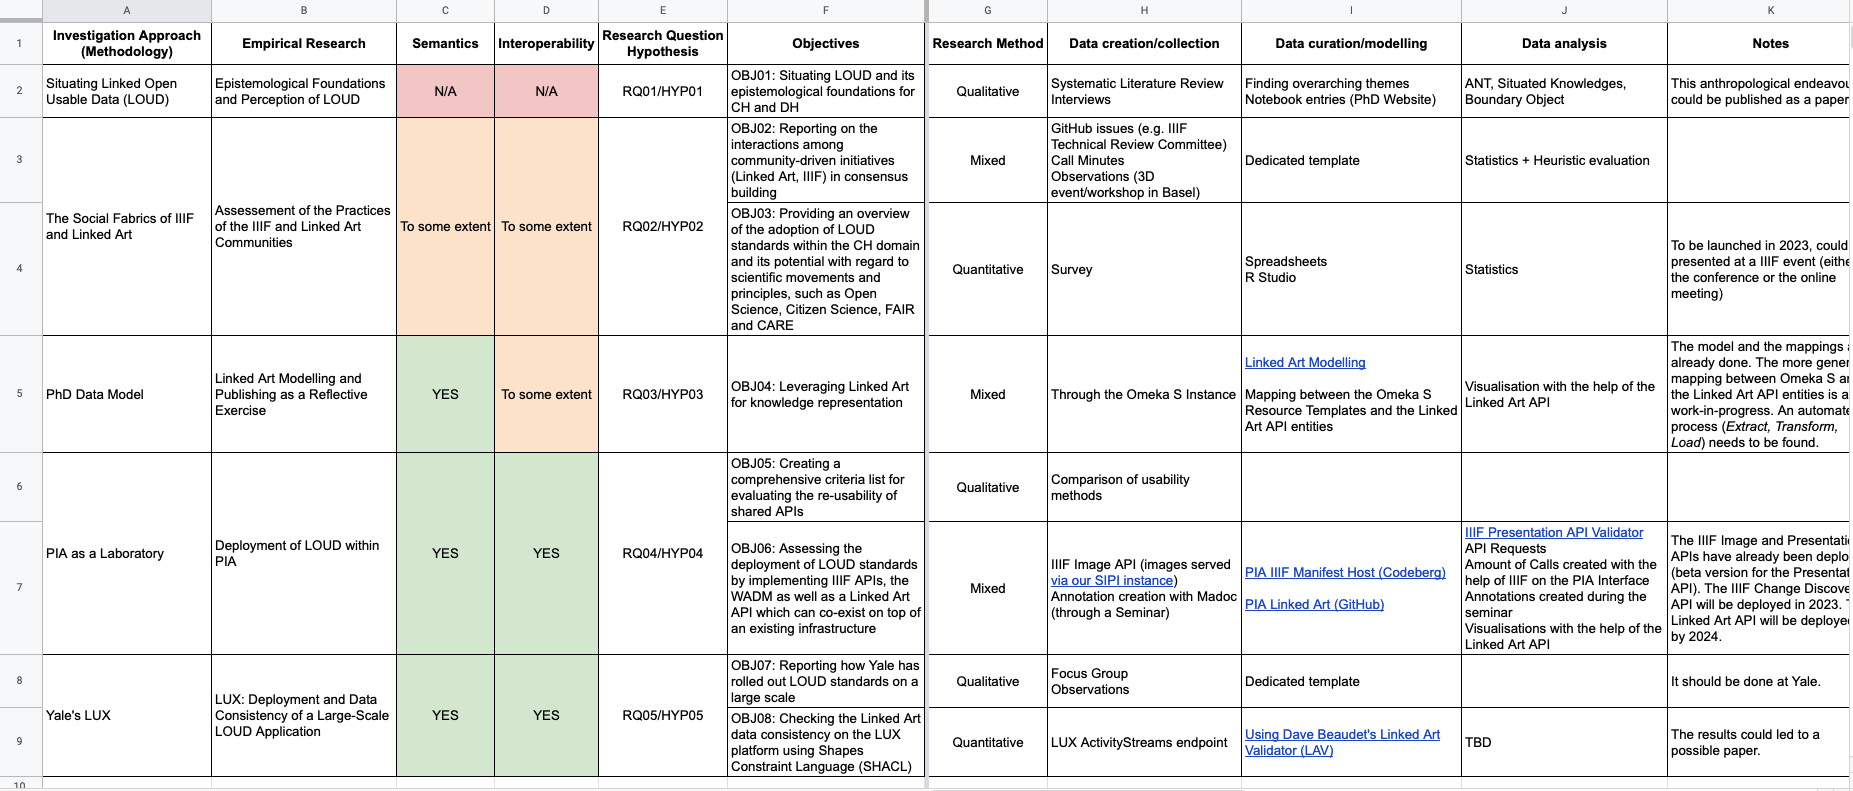
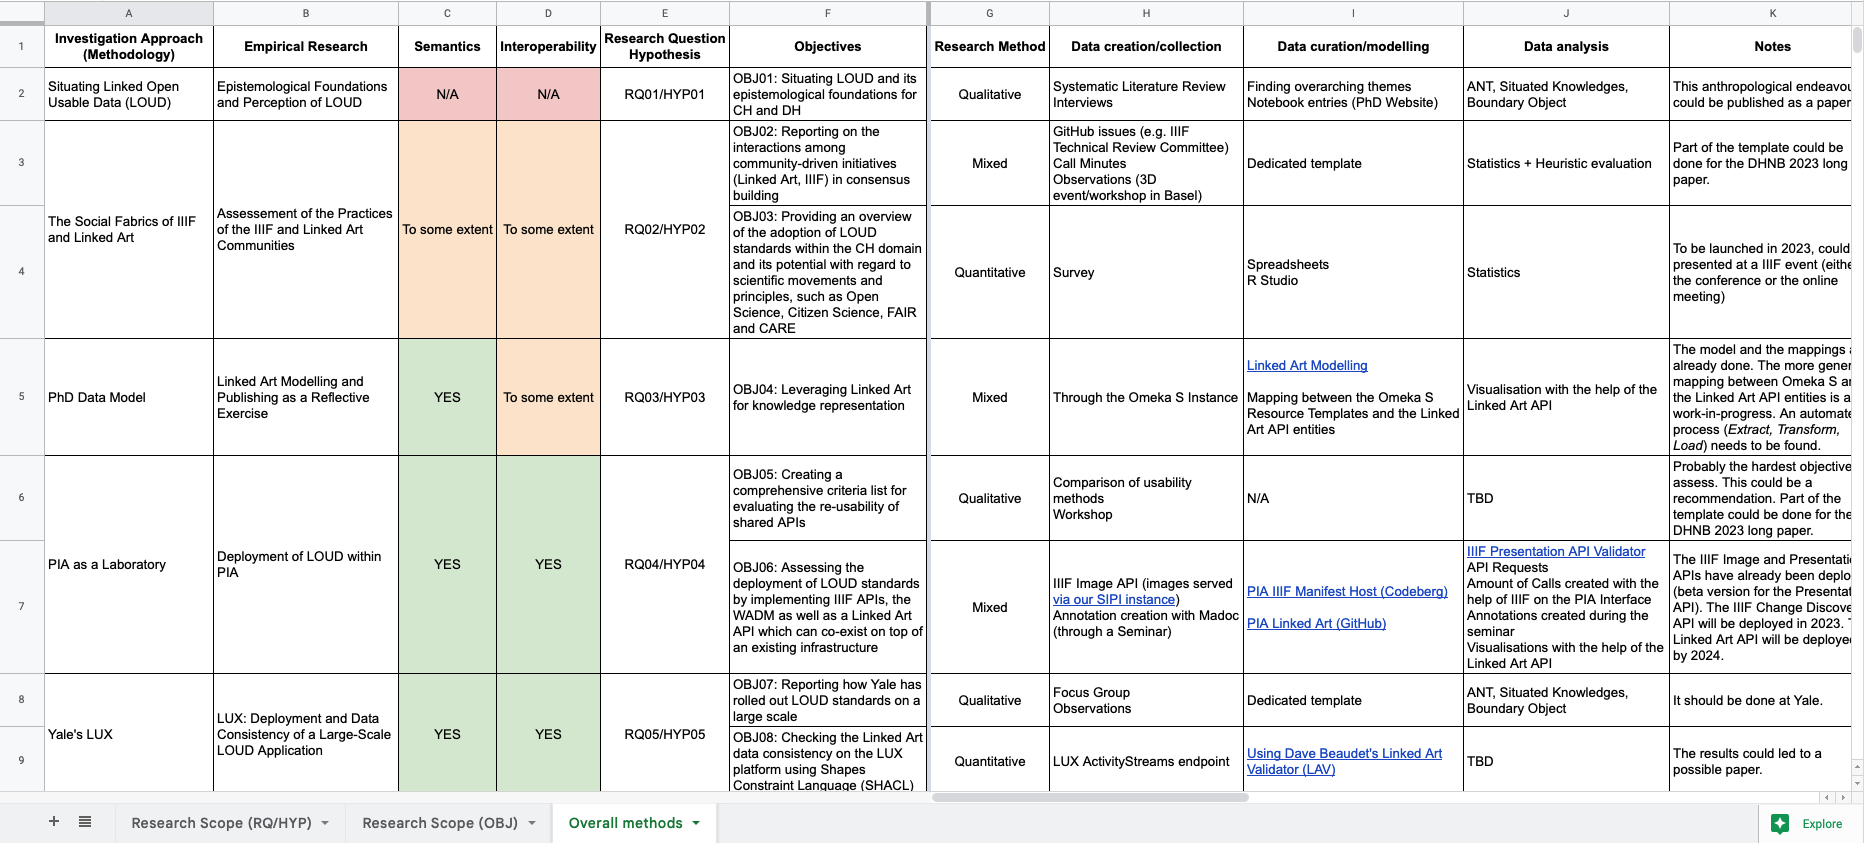
modify screenshot

diff --git a/md/loud-midway.md b/md/loud-midway.md
@@ -88,29 +88,6 @@ https://phd.julsraemy.ch
 
 ---
 
-<!-- _footer: " " -->
-
-![bg contain](https://raw.githubusercontent.com/julsraemy/linked-art-modelling/main/phd-datamodel-overview.svg)
-
----
-
-<!-- _footer: " " -->
-
-![bg contain](https://raw.githubusercontent.com/julsraemy/linked-art-modelling/main/text/diss-0.svg)
-
----
-
-# PhD Data Model Rationale
-
-Leveraging Linked Art as/for:
-
-- a meta level of my thesis to describe the dissertation and its chapters/sections
-- the notebook entries that will be published on https://phd.julsraemy.ch
-- the concepts that are not available via the Getty vocabularies
-- the actors (people and groups) involved within the PIA research project and my thesis. 
-
----
-
 # Working title of the dissertation
 
 0. _Deploying a Citizen Science Infrastructure with Linked Open Usable Data Standards_
@@ -158,45 +135,6 @@ Leveraging Linked Art as/for:
 
 <!-- _class: lead -->
 
-# <!-- fit --> Theoretical Framework
-### Through and beyond an Actor-Network Theory (ANT) Lens
-![bg left:30%](https://sipi.participatory-archives.ch/SGV_12/SGV_12N_19553.jp2/full/max/0/default.jpg)
-
----
-![bg right:30%](https://sipi.participatory-archives.ch/SGV_12/SGV_12N_36937.jp2/full/max/0/default.jpg)
-
-
-# Theoretical Framework
-
-- Implosion of the Boundaries: Objects have Agency
-- Assembling the Collective
-- The Translation Process
-
----
-
-![bg right:30%](https://sipi.participatory-archives.ch/SGV_12/SGV_12N_36937.jp2/full/max/0/default.jpg)
-
-
-##  Actor-Network Theory (Latour, Akrich, Callon, Law)
-
----
-
-![bg right:30%](https://sipi.participatory-archives.ch/SGV_12/SGV_12N_36937.jp2/full/max/0/default.jpg)
-
-
-# <!-- fit --> Situated Knowledges (Haraway)
-
----
-
-![bg right:30%](https://sipi.participatory-archives.ch/SGV_12/SGV_12N_36937.jp2/full/max/0/default.jpg)
-
-
-# <!-- fit -->  Boundary Objects (Star & Griesemer)
-
----
-
-<!-- _class: lead -->
-
 # Research Scope, Methodology and Empirical Research
 ![bg left:30%](https://sipi.participatory-archives.ch/SGV_12/SGV_12N_19553.jp2/full/max/0/default.jpg)
 
@@ -219,21 +157,24 @@ Leveraging Linked Art as/for:
 - PIA as a Laboratory → Deployment of LOUD within PIA
 - Yale's LUX → LUX: Deployment and Data Consistency of a Large-Scale LOUD Application
 
-See [Overall Methods](https://docs.google.com/spreadsheets/d/1MNcoRj5sL0H7Z6u1kgdi_UjkAKcfOwYh-Irm392TIzQ/edit?usp=sharing)
+---
+
+[![bg contain](https://julsraemy.ch/prezi/assets/methods-phdigital.png)](https://docs.google.com/spreadsheets/d/1MNcoRj5sL0H7Z6u1kgdi_UjkAKcfOwYh-Irm392TIzQ/edit#gid=0)
 
 ---
-<!-- _footer: " " -->
 
-![bg contain](https://julsraemy.ch/prezi/assets/methods-phdigital.png)
-
-
----
 ![bg right:30%](https://sipi.participatory-archives.ch/SGV_12/SGV_12N_36937.jp2/full/max/0/default.jpg)
 
+# Next slides
 
-# Empirical Research
+### <!-- fit --> A few examples of what has been done
+
+- Slide 17: IIIF Community Overview `Objective 02`
+- Slides 18-19: PhD Data Model `Objective 04`
+- Slide 20: IIIF Resource Generation for PIA `Objective 06`
 
 ---
+
 <!-- _footer: " " -->
 
 ![bg contain](https://julsraemy.ch/prezi/assets/iiif_community_overview.svg)
@@ -246,16 +187,95 @@ I have tried to provide an overview of the different actors showing the relation
 
 <!-- _footer: " " -->
 
+![bg contain](https://raw.githubusercontent.com/julsraemy/linked-art-modelling/main/phd-datamodel-overview.svg)
+
+<!-- 
+
+- a meta level of my thesis to describe the dissertation and its chapters/sections
+- the notebook entries that will be published on https://phd.julsraemy.ch
+- the concepts that are not available via the Getty vocabularies
+- the actors (people and groups) involved within the PIA research project and my thesis. 
+
+-->
+
+---
+
+<!-- _footer: " " -->
+
+![bg contain](https://raw.githubusercontent.com/julsraemy/linked-art-modelling/main/text/diss-0.svg)
+
+
+
+---
+
+<!-- _footer: " " -->
+
 ![bg contain](https://julsraemy.ch/prezi/assets/pia_iiif_workflow.jpg)
 
 <!-- IIIF Workflow within PIA -->
 
 ---
 
-<!-- _footer: " " -->
 
-![bg contain](https://raw.githubusercontent.com/Participatory-Image-Archives/linkedart/main/assets/pia_linkedartmodel.svg)
+<!-- _class: lead -->
 
+# <!-- fit --> Theoretical Framework
+### Through and beyond an Actor-Network Theory (ANT) Lens
+![bg left:30%](https://sipi.participatory-archives.ch/SGV_12/SGV_12N_19553.jp2/full/max/0/default.jpg)
+
+---
+![bg right:30%](https://sipi.participatory-archives.ch/SGV_12/SGV_12N_36937.jp2/full/max/0/default.jpg)
+
+
+# Theoretical Framework
+
+Sections of the chapter:
+
+- Implosion of the Boundaries: Objects have Agency
+- Assembling the Collective
+- The Translation Process
+
+_→ The goal is to look and discuss all findings with an ANT-like lens_
+
+<!-- 
+
+1) Demonstrating how non-human entities have agency.; 
+2) Identifying the human and non-human actors participating in the process;
+3) Investigating how the concept of translation is carried out, i.e. the process that allows a network to be represented by a single entity.
+
+-->
+
+---
+
+
+###  Actor-Network Theory (Latour, Akrich, Callon, Law)
+
+> *Actor-Network Theory (ANT) aims at describing the very nature of societies. But to do so it does not limit itself to human individual actors, but extent the word actor - or actant - to non-human, non-individual entities* 
+
+[Latour 1996](https://www.jstor.org/stable/40878163)
+
+---
+
+###  Situated Knowledges (Haraway)
+
+> *Situated knowledges are about communities, not about isolated individuals. The only way to find a larger vision is to be somewhere in particular. The science question in feminism is about objectivity as positioned rationality. Its images are not the products of escape and transcendence of limits (the view from above) but the joining of partial views and halting voices into a collective subject position that promises a vision of the means of ongoing finite embodiment, of living within limits and contradictions-of views from somewhere.*
+
+[Haraway 1998](https://www.jstor.org/stable/3178066)
+
+---
+
+###  Boundary Objects (Star & Griesemer)
+
+> *Objects which are both plastic enough to adapt to local needs and constraints of the several parties employing them, yet robust enough to maintain a common identity across sites. They are weakly structured in common use, and become strongly structured in individual-site use. They may be abstract or concrete. They have different meanings in different social worlds but their structure is common enough to more than one world to make them recognizable, a means of translation.*
+
+[Star & Griesemer 1989](https://www.jstor.org/stable/285080)
+
+---
+
+![bg contain 62%](https://julsraemy.ch/assets/images/star_boundaryobject.svg)
+
+
+Cf. [Back and Forth from Boundry Objects to IIIF Resources](https://julsraemy.ch/posts/2022/10/05/boundary-objects-iiif-dariah/)
 
 ---
 
@@ -269,7 +289,28 @@ I have tried to provide an overview of the different actors showing the relation
 ![bg right:30%](https://sipi.participatory-archives.ch/SGV_12/SGV_12N_36937.jp2/full/max/0/default.jpg)
 
 
-# Upcoming and Possible papers
+# After this meeting
+
+- Amending the research scope, methodology and empirical research on the spreadsheet and on Overleaf
+- Updating the ToC on Overleaf
+- Adding new information on the PhD Website
+- Sending a new version of the doctoral agreement to the Faculty (with updated working title)
+
+---
+
+# Upcoming presentations/papers
+
+- EuroMed 2022: *Implementation of the IIIF Presentation API 3.0 based on Software Support: Use Case of an Incremental IIIF Deployment within a Citizen Science Project* - with Adrian
+- DHNB 2023: *Community and Interoperability at the Core of Sustaining Image Archives* - with Ulrike, Peter and Max 
+- Journal on Computing and Cultural Heritage (JOCCH): *Annotations as Knowledge Practices in Image Archives: Application of Linked Open Usable Data and Machine Learning* - with Murielle and Florian / Awaiting Reviewer Assignment 
+
+---
+
+# Possible presentations/papers
+
+- DH2023 (Poster): *Enabling Participatory Data Perspectives for Image Archives through a Linked Art Workflow* - with Tanya Gray, Alwyn Collinson and Kevin Page (Oxford) / Pending
+- *Situating LOUD* 
+- *Using the Linked Art Validator against Yale's LUX data*
 
 ---
 
